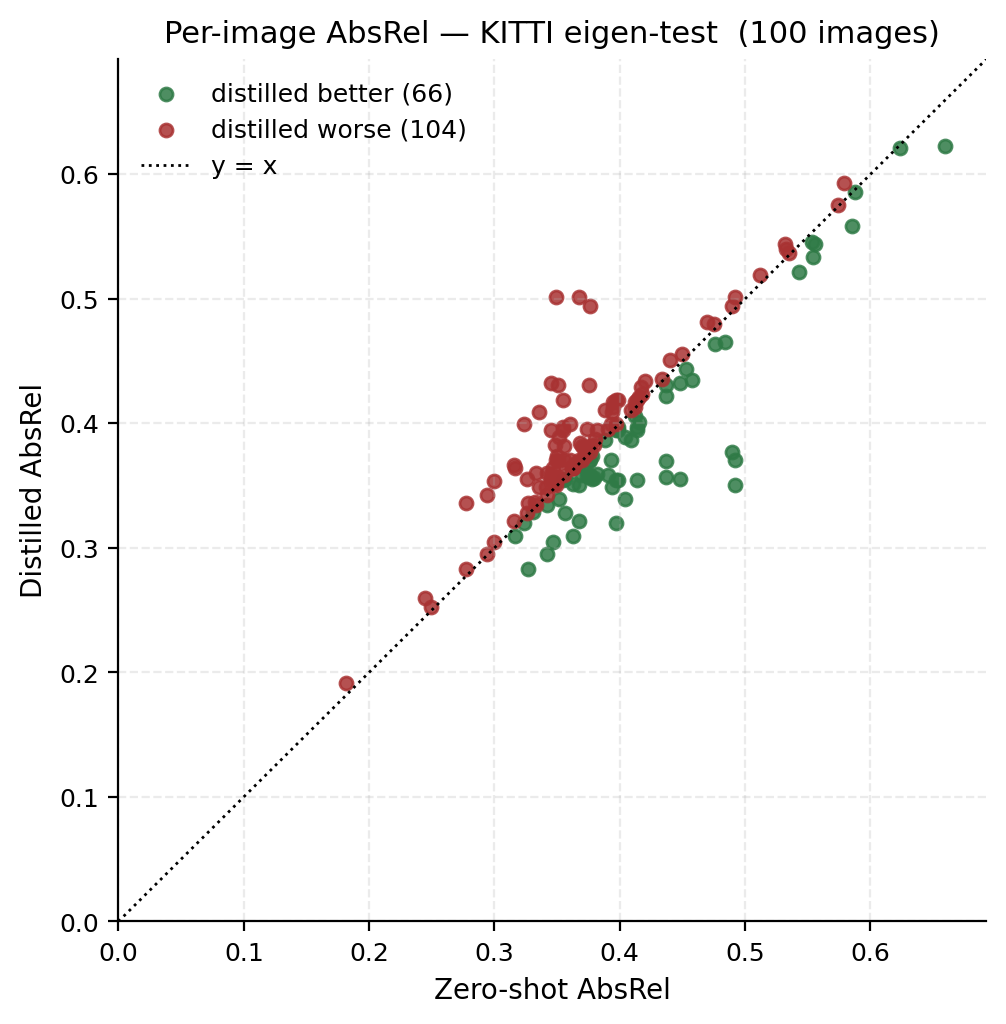
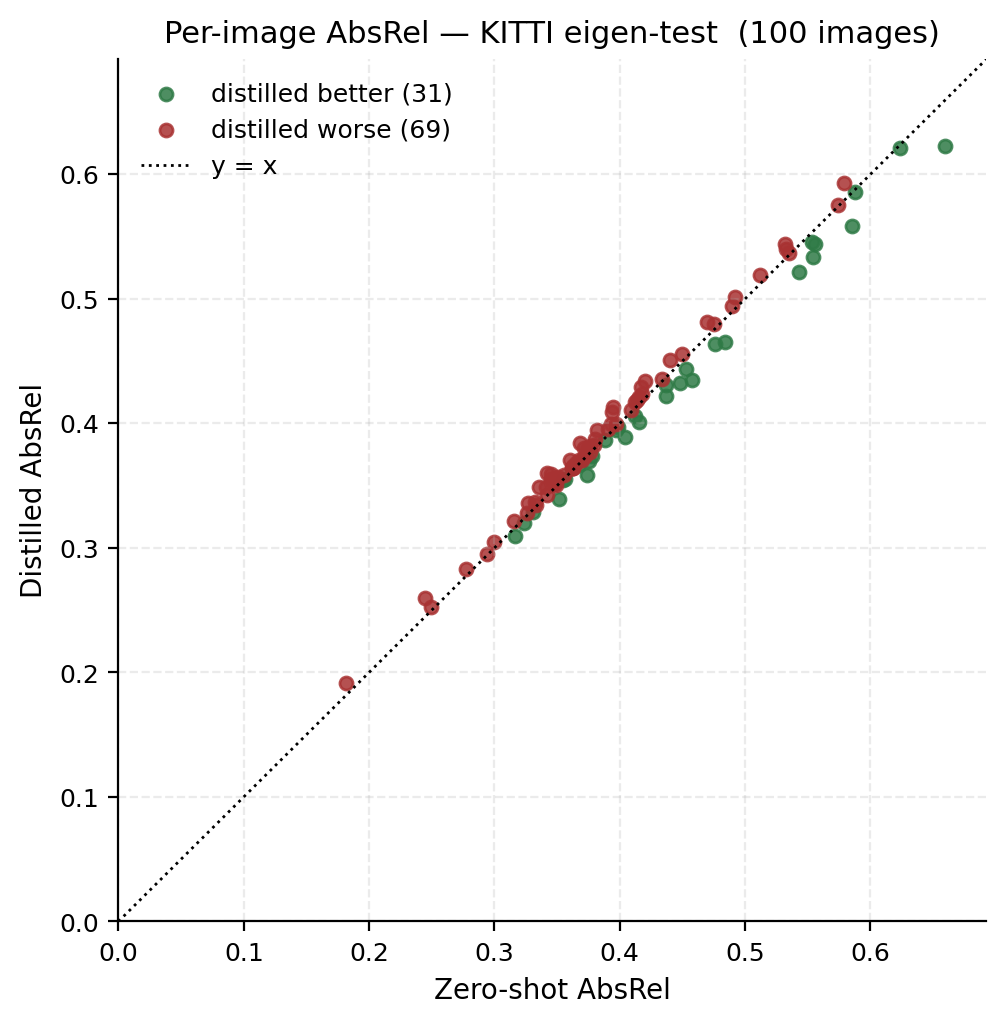
Fix KITTI per-image scatter — pair by row position not sample_id
KITTI per-image CSVs have only 71 unique sample_ids out of 100 rows
(filename stems repeat across drive sequences in the eigen-test
subset). The merge-on-sample_id inflated 100 rows into 170 and showed
"66 better / 104 worse" — wrong.

Switching to row-position pairing gives the correct counts (31 better,
69 worse) and confirms the OOD story: points cluster tightly along y=x
with a small net direction toward worse, matching the +0.001 AbsRel
shift in the summary.

Also:
- Same prophylactic fix for the NYU scatter (counts unchanged: 1 / 58)
- Clearer annotation on train_loss_vs_val_absrel.png ("beta sweep, lr=1e-7")
- Updated paper + slides text to reflect the actual 31/69 split

Found by a parallel-agent verification pass over all 13 training figures.

diff --git a/src/make_training_figures.py b/src/make_training_figures.py
@@ -153,18 +153,21 @@ def fig_all_runs_validation(sweep_name: str, hyperparam_label: str, output_name:
 # 3. Per-image scatter — zero-shot vs distilled on NYU-v2
 # ----------------------------------------------------------------------------
 def fig_per_image_scatter():
-    zs = pd.read_csv(METRICS / "zero_shot_nyu_per_image.csv")
-    dt = pd.read_csv(METRICS / "distill_test_per_image.csv")
-    merged = zs.merge(dt, on="sample_id", suffixes=("_zs", "_dt"))
+    zs = pd.read_csv(METRICS / "zero_shot_nyu_per_image.csv").reset_index(drop=True)
+    dt = pd.read_csv(METRICS / "distill_test_per_image.csv").reset_index(drop=True)
+    # Pair by row position — sample_id may not be unique on some datasets.
+    assert len(zs) == len(dt), f"row-count mismatch: zs={len(zs)} dt={len(dt)}"
+    zs_ar = zs["abs_rel"].to_numpy()
+    dt_ar = dt["abs_rel"].to_numpy()
 
     fig, ax = plt.subplots(figsize=(5.6, 5.6))
-    improved = merged["abs_rel_dt"] < merged["abs_rel_zs"]
-    ax.scatter(merged.loc[improved, "abs_rel_zs"], merged.loc[improved, "abs_rel_dt"],
-               color=GOOD, s=22, alpha=0.85, label=f"distilled better ({improved.sum()})")
-    ax.scatter(merged.loc[~improved, "abs_rel_zs"], merged.loc[~improved, "abs_rel_dt"],
-               color=BAD, s=22, alpha=0.85, label=f"distilled worse ({(~improved).sum()})")
+    improved = dt_ar < zs_ar
+    ax.scatter(zs_ar[improved], dt_ar[improved],
+               color=GOOD, s=22, alpha=0.85, label=f"distilled better ({int(improved.sum())})")
+    ax.scatter(zs_ar[~improved], dt_ar[~improved],
+               color=BAD, s=22, alpha=0.85, label=f"distilled worse ({int((~improved).sum())})")
     lim_min = 0.0
-    lim_max = max(merged["abs_rel_zs"].max(), merged["abs_rel_dt"].max()) * 1.05
+    lim_max = max(zs_ar.max(), dt_ar.max()) * 1.05
     ax.plot([lim_min, lim_max], [lim_min, lim_max], color="black", linestyle=":", linewidth=1.0,
             label="y = x (no change)")
     ax.set_xlim(lim_min, lim_max)
@@ -303,23 +306,29 @@ def fig_sweep_panel():
 # 8. KITTI per-image scatter
 # ----------------------------------------------------------------------------
 def fig_kitti_scatter():
-    zs = pd.read_csv(METRICS / "kitti_zero_shot_per_image.csv")
-    dt = pd.read_csv(METRICS / "kitti_distill_per_image.csv")
-    merged = zs.merge(dt, on="sample_id", suffixes=("_zs", "_dt"))
+    # NOTE: KITTI per-image CSVs have non-unique sample_id (filename stem repeats
+    # across drive sequences). Pair by row position instead of merging on sample_id,
+    # since both CSVs are written by the same DataLoader pass in the same order.
+    zs = pd.read_csv(METRICS / "kitti_zero_shot_per_image.csv").reset_index(drop=True)
+    dt = pd.read_csv(METRICS / "kitti_distill_per_image.csv").reset_index(drop=True)
+    assert len(zs) == len(dt), f"row-count mismatch: zs={len(zs)} dt={len(dt)}"
+    zs_ar = zs["abs_rel"].to_numpy()
+    dt_ar = dt["abs_rel"].to_numpy()
+
     fig, ax = plt.subplots(figsize=(5.6, 5.6))
-    improved = merged["abs_rel_dt"] < merged["abs_rel_zs"]
-    ax.scatter(merged.loc[improved, "abs_rel_zs"], merged.loc[improved, "abs_rel_dt"],
-               color=GOOD, s=22, alpha=0.85, label=f"distilled better ({improved.sum()})")
-    ax.scatter(merged.loc[~improved, "abs_rel_zs"], merged.loc[~improved, "abs_rel_dt"],
-               color=BAD, s=22, alpha=0.85, label=f"distilled worse ({(~improved).sum()})")
-    lim_max = max(merged["abs_rel_zs"].max(), merged["abs_rel_dt"].max()) * 1.05
+    improved = dt_ar < zs_ar
+    ax.scatter(zs_ar[improved], dt_ar[improved],
+               color=GOOD, s=22, alpha=0.85, label=f"distilled better ({int(improved.sum())})")
+    ax.scatter(zs_ar[~improved], dt_ar[~improved],
+               color=BAD, s=22, alpha=0.85, label=f"distilled worse ({int((~improved).sum())})")
+    lim_max = max(zs_ar.max(), dt_ar.max()) * 1.05
     ax.plot([0, lim_max], [0, lim_max], color="black", linestyle=":", linewidth=1.0,
             label="y = x")
     ax.set_xlim(0, lim_max)
     ax.set_ylim(0, lim_max)
     ax.set_xlabel("Zero-shot AbsRel")
     ax.set_ylabel("Distilled AbsRel")
-    ax.set_title("Per-image AbsRel — KITTI eigen-test  (100 images)")
+    ax.set_title(f"Per-image AbsRel — KITTI eigen-test  ({len(zs)} images)")
     ax.legend(loc="upper left", frameon=False)
     save(fig, "kitti_per_image_scatter.png")
 
@@ -398,12 +407,17 @@ def fig_loss_vs_val():
         ax.scatter(sub["train_loss"], sub["val_abs_rel"], color=color, s=60,
                    label=sweep_name.replace("_at_alpha07", " (lr at $\\alpha=0.7$)"),
                    edgecolor="white", linewidth=1)
-    # Annotate the headline point — best stable run
+    # Annotate the headline point — best stable run (lowest val AbsRel)
     best_idx = df["val_abs_rel"].idxmin()
-    ax.annotate(f"best stable\n(lr={df.loc[best_idx, 'lr']:.0e})",
-                xy=(df.loc[best_idx, "train_loss"], df.loc[best_idx, "val_abs_rel"]),
-                xytext=(df.loc[best_idx, "train_loss"] + 0.05,
-                        df.loc[best_idx, "val_abs_rel"] - 0.05),
+    best = df.loc[best_idx]
+    sweep_label = {
+        "alpha": "alpha sweep",
+        "lr_at_alpha07": "lr sweep",
+        "beta": "beta sweep",
+    }.get(best["sweep"], best["sweep"])
+    ax.annotate(f"best stable run\n({sweep_label}, lr={best['lr']:.0e})",
+                xy=(best["train_loss"], best["val_abs_rel"]),
+                xytext=(best["train_loss"] + 0.05, best["val_abs_rel"] - 0.05),
                 fontsize=8, ha="left",
                 arrowprops=dict(arrowstyle="->", color=MUTED, lw=0.8))
     ax.set_xlabel("Final epoch train loss")

diff --git a/paper/main.tex b/paper/main.tex
@@ -660,10 +660,11 @@ relative to native-resolution KITTI evaluations.}
 \centering
 \includegraphics[width=0.95\columnwidth]{figs/training/kitti_per_image_scatter.png}
 \caption{Per-image AbsRel on the KITTI eigen-test subset, distilled
-checkpoint vs.\ zero-shot. Points scatter symmetrically around the
+checkpoint vs.\ zero-shot. Points cluster tightly along the
 $y=x$ diagonal: the distilled checkpoint changes individual KITTI
-images by small amounts in both directions, with no systematic
-direction of improvement.}
+images by small amounts in both directions (31 improve, 69 degrade
+slightly), and the small net direction toward ``worse'' is consistent
+with the marginal degradation in mean AbsRel ($+0.001$).}
 \label{fig:kittiscatter}
 \end{figure}
 

diff --git a/paper/slides.tex b/paper/slides.tex
@@ -385,9 +385,9 @@ Distilled       & 0.4035 & 0.3485 & 7.93 \\
 \end{tabular}\end{table}
 \centering
 \includegraphics[width=0.42\textwidth]{training/kitti_per_image_scatter.png}\\[0.2em]
-\footnotesize Per-image scatter: roughly symmetric around $y=x$. The NYU-v2 improvement
-does \emph{not} transfer to KITTI -- at $\text{lr}=10^{-7}$ the encoder barely moves
-from its pretrained init, so OOD behavior is inherited unchanged.
+\footnotesize Per-image scatter: 31 images improve, 69 degrade slightly -- all tightly
+along $y=x$. The NYU-v2 improvement does \emph{not} transfer to KITTI; at $\text{lr}=10^{-7}$
+the encoder barely moves from its pretrained init, so OOD behavior is inherited unchanged.
 \end{frame}
 
 % --------------------------------------------------------------------------